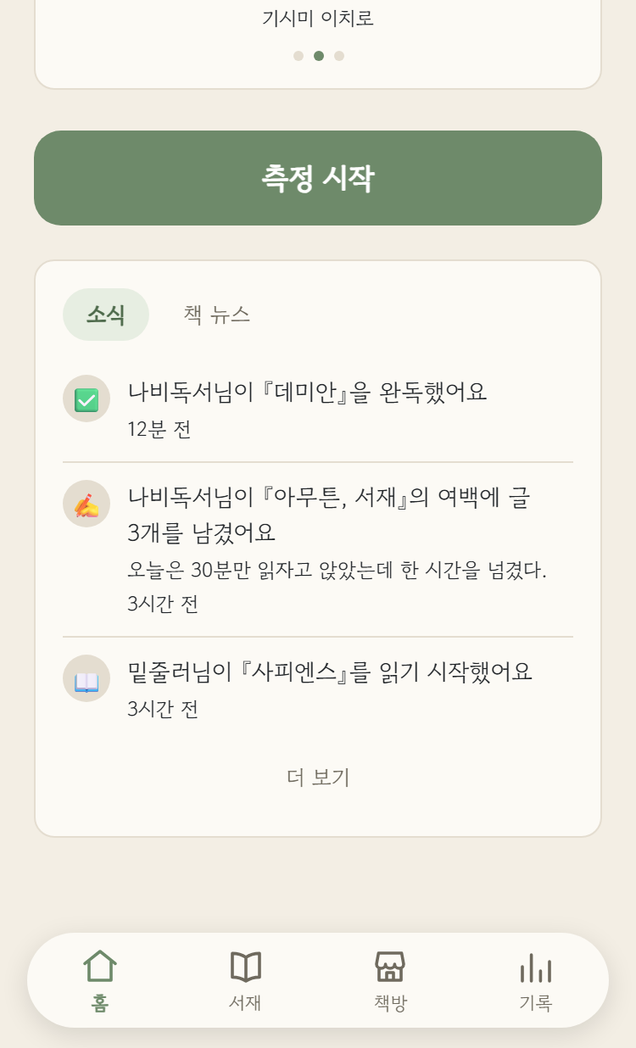
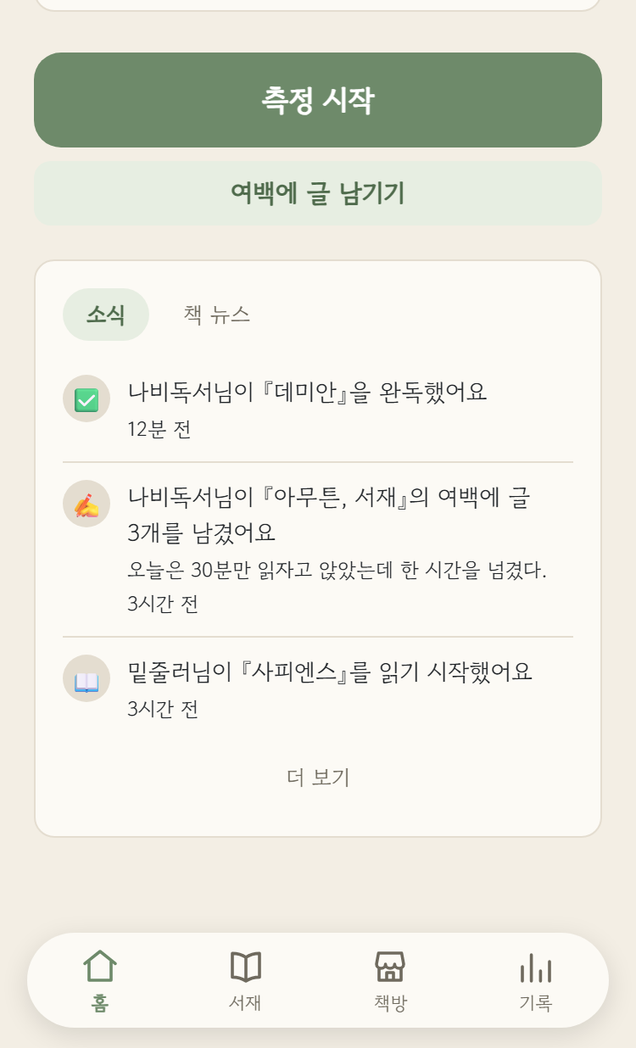
chore(미니앱): 서재 화면이 바뀌어 스토어 스크린샷을 다시 찍는다
인라인 여백 박스가 들어가면서 03-library가 직전 배포와 다른 화면이 됐다.
옛 그림이 콘솔에 남으면 「실제 앱과 다르다」가 그대로 반려 사유다.

03-library도 최상단에서 못 찍게 됐다 — 박스가 세로를 늘려 스크롤 0에서
찍으면 첫 글 카드가 문장 중간에서 탭바로 잘린다. 01-home이 이미 같은
이유로 80px 내려 찍고 있었고, 여기도 60px 오프셋을 재촬영기에 박았다
(더 내리면 상태 탭 줄이, 덜 내리면 첫 카드가 잘린다 — 눈으로 고른 값).

나머지 컷의 변경분은 목 픽스처의 상대시각·오늘 날짜 행과 소식에 실린
새 여백 글이다. 규격은 636x1048 x5 + 1504x741 그대로.

Session-Model: claude-opus-5

Changed region(s): [[0.0299, 0.0, 0.956, 0.2137]]

diff --git a/claude-docs/changelog.md b/claude-docs/changelog.md
@@ -699,3 +699,4 @@
 | 2026-08-16 | **feat(미니앱): 여백 쓰기 동선을 홈·서재로 옮긴다 (PR 3/3)** — 여백에 글을 남기는 유일한 길이 **책방**이었다. 책방은 남에게 *보여지는* 전시장이지 개인 공간이 아니고, 격자가 공개 책만 진열해 **비공개 책엔 진입점이 아예 없었다**(홈에서 글 쓰기까지 3탭 + 스크롤). 그래서 문을 두 개 냈다 — 홈은 「측정 시작」 바로 아래 「여백에 글 남기기」로 **1탭 작성 직행**(대상 책 = 측정 중이면 활성 책, 대기 중이면 캐러셀에서 고른 책 · `marginDoorBook`), 서재는 「관리」 옆 「여백」 손잡이로 그 책의 여백 화면(서재는 "뭘 남겼더라"를 들춰보는 자리라 작성 직행이 아니다). 핸들(@아이디)이 없으면 둘 다 그리지 않는다 — 서버가 여백 대상을 loginId로만 찾아 눌러도 안 열리는 죽은 문이 된다. ⚠ **구조 변경은 「여백을 App 전역 뷰로 올린 것」**이다: 예전엔 홈 소식에서 여백을 열면 **책방 탭으로 점프**해, 뒤로 갔더니 남의 전시장이 나왔다(문의 취지가 거기서 무너진다). 이제 `goal`·`settings`처럼 탭 위에 전체 화면으로 서고 **뒤로 = 열었던 탭**이며, 그 전달 수단이던 `marginTarget`(App 상태 + `Bookshop.initialMargin`/`onMarginConsumed`) 배선은 통째로 삭제했다. 책방 격자→여백은 책방 셸 내부 상태 그대로라 그 경로는 회귀 0. 비공개 책 여백이 생겼으므로 고지도 2중으로 — **쓰는 순간** 캡션(`visibilityNotice`: 비공개면 「나만 봐요」, 필드 없는 옛 서버는 공개로 간주 — 새는 글을 안 샌다고 말하는 쪽이 더 위험한 거짓말이다)과 **공개하는 순간** 확인 시트(`needsPublishConfirm`: 비공개 + 남긴 글 1개 이상일 때만, 되돌리는 방향엔 묻지 않는다). 캡션은 placeholder가 아니라 입력 위 캡션이다(placeholder는 첫 글자에 사라지는데 정작 그 문구가 필요한 때는 쓰는 도중이다). TDD RED→GREEN 5회(순수 함수 3종 + 노출 마크업 2회), 돌연변이 4종으로 테스트가 실제로 죽는지 확인, 미니앱 628건·tsc 깨끗. 목 모드 실 브라우저로 홈·서재·소식·책방 4경로와 확인 시트 전 항목 확인(콘솔 에러 0). ⚠ 확인 중 **목이 거짓 신호를 주는 것**도 하나 고쳤다 — `recentBookId`가 상수 1이라 측정 중 문이 엉뚱한 책을 가리켰다(서버는 `startedAt desc`라 활성 책이 최신). 새 애니메이션 0. |
 | 2026-08-16 | **fix(미니앱): 여백에 다녀오면 홈 캐러셀 선택이 기본 책으로 되돌아가던 것** — 직전 PR(#826)이 여백을 **탭 밖 전역 뷰**로 올리면서 생긴 알려진 한계를 사용자 제보(「거슬린다」)로 닫았다. 캐러셀에서 기본값 아닌 책을 골라 「여백에 글 남기기」로 들어갔다 나오면 선택이 이어 읽기 책으로 되돌아왔다 — 여백·목표·설정이 전체 화면으로 서면 홈이 **언마운트**되는데 고른 책을 홈이 `useState`로 들고 있었기 때문. 상태를 **App으로 올렸다**(탭 밖 화면이 서도 살아남는 자리). ⚠ **`undefined`(아직 안 고름)와 `null`(「책 없이」를 고름)을 다른 값으로 뒀다** — 하나로 합치면 책 없이 측정하던 사람이 돌아올 때마다 이어 읽기 책으로 끌려간다(선택을 지키려던 수정이 정반대로 작동하는 자리). 홈은 `undefined`일 때만 `defaultBookId` 규칙으로 떨어지므로 기본값 동작은 그대로다. TDD RED 2건 → GREEN, 미니앱 630건·tsc 깨끗. **돌연변이 사살**: 프롭을 무시하고 늘 기본값을 쓰게 뒤집자 새 테스트 2건이 죽었다. 목 모드 실 브라우저 게이트로 실제 시나리오 확인(사피엔스 선택 → 작성 화면 → 뒤로 → 사피엔스 유지, 콘솔 에러 0). |
 | 2026-08-16 | **feat(미니앱): 서재에서 고른 책 아래 여백을 인라인으로 보여준다** — 서재의 「여백」은 **누르기 전엔 아무것도 말하지 않는 문**이었다: 그 책에 글이 있는지조차 목록 화면까지 가야 알 수 있어, 「내가 뭘 남겼더라」를 들춰보려면 매번 화면을 나갔다 와야 했다. 고른 책 아래 **인라인 박스**(헤더 「여백 N」 + 최근 2장 미리보기 + 「전체 보기 ›」)를 세워 그 자리에서 보이게 하고, 손잡이 줄은 **「여백에 글쓰기」(작성 직행) + 「관리」 전폭 2:1**로 갈랐다 — 들춰보기를 박스가 맡으니 손잡이는 홈 문과 같은 작성 직행이 된다. 카드는 여백 화면의 `MarginCard`를 `self=false`로 빌려 쓴다(지우기는 전체 화면의 몫 — 새 카드 구현 0). ⚠ **가장 위험한 자리는 캐러셀을 훑을 때의 경합**이라 가드를 **둘** 뒀다: ① 쓰기 가드(effect cleanup의 `stale`) ② **렌더 가드**(스냅에 `bookId` 태그를 달아 지금 책과 다르면 무조건 로딩 — 순수 함수 `marginBoxView`라 단위 계측이 닿는다). 한쪽만으론 반쪽이다 — 렌더 가드 단독은 늦은 응답이 마지막에 덮으면 **재요청 트리거가 없어 로딩에 영구 교착**하고, 쓰기 가드 단독은 「응답 도착 전까지 옛 책 글이 그대로 보이는」 구간을 못 막는다. 요청 폭주는 **2단 debounce**(캐러셀 settle 120ms + 박스 300ms)로 누른다 — 훑는 도중엔 요청이 아예 안 나가고 정착한 책만 1회(목 모드 실측: 3권을 훑어 **1건**). ⚠ **응답 캐시는 일부러 안 만들었다** — 리마운트 재조회(작성 후 복귀 반영이 여기서 공짜로 나온다)와 캐시 무효화가 얽히면 stale 사고 클래스가 새로 생긴다. 박스는 `selectedId`가 아니라 **`resolveSelected` 결과**에 물려 있어 탭 이동·삭제로 state 변경 없이 선택이 폴백되는 경로까지 자동으로 덮인다. 실패는 박스 안 한 줄에 머문다(401만 App으로). ⚠ **`HANDLE_ROW_HEIGHT`는 추측값이 아니라 실측이다** — TDS `Button size="medium"` 높이는 코드로 유도할 수 없어 목 모드에서 「책 추가하기」를 재서 38px로 박았다(합폭 350 = 본문 전폭, gap 8, 실측 비율 1.87:1). TDD RED→GREEN 3단계(T1 스냅 판정 4건 → T2 표시 7건 → T3 배선 6건), 미니앱 644건·tsc 깨끗. **돌연변이 사살 3종**: 렌더 가드의 `bookId` 비교 삭제 / 미리보기 `slice` 개수 조작 / `myLoginId !== null` 가드 삭제 — 각각 1건씩 죽었다. 목 모드 실 브라우저 게이트 10항목 전수(표시·0장·비공개·탭 이동·삭제·전체 보기·작성 직행과 복귀 반영·핸들 없는 계정·손잡이 실측·요청 계수, 콘솔 에러 0). |
+| 2026-08-16 | **chore(미니앱): 서재 화면이 바뀌어 스토어 스크린샷 6장을 다시 찍는다** — 인라인 여백 박스가 들어가면서 `03-library.png`가 **직전 배포와 다른 화면**이 됐다. 옛 그림이 콘솔에 남으면 「실제 앱과 다르다」가 그대로 반려 사유라, 화요일 심사 제출 전에 `shoot.mjs`로 6장을 덮어썼다(규격은 그대로 636×1048 ×5 + 1504×741). ⚠ **`03-library`도 최상단에서 못 찍게 됐다** — 박스가 세로를 늘려 스크롤 0에서 찍으면 첫 글 카드가 **문장 중간에서 탭바로 잘린다**(잘린 문장은 심사용 그림이 아니다). `01-home`이 이미 같은 이유로 80px 내려 찍고 있었고, 여기도 60px 오프셋을 재촬영기에 박았다 — 값은 눈으로 골랐다(더 내리면 상태 탭 줄이 잘리고, 덜 내리면 첫 카드가 잘린다). 나머지 컷의 변경분은 목 픽스처의 상대시각·오늘 날짜 행과 소식에 실린 새 여백 글이다. 재촬영기가 레포에 있어 이번엔 처음부터 짜지 않았다(2026-08-16 오전에 스크래치패드 소실로 다시 짰던 비용이 실제로 회수된 첫 사례). |

diff --git a/miniapp/screenshots/README.md b/miniapp/screenshots/README.md
@@ -12,7 +12,7 @@
 |---|---|---|
 | `01-home.png` | 홈 — 타이머 카드 + 표지 캐러셀 | 세로 |
 | `02-feed.png` | 홈(아래) — 「소식」·「책 뉴스」 피드 박스 | 세로 |
-| `03-library.png` | 서재 — 상태 탭 + 표지 캐러셀 | 세로 |
+| `03-library.png` | 서재 — 상태 탭 + 표지 캐러셀 + 인라인 여백 박스 | 세로 |
 | `04-history.png` | 기록 — 통계 + 잔디 + 날짜별 기록 | 세로 |
 | `05-goal.png` | 목표 — 시/분 휠 피커 | 세로 |
 | `10-landscape.png` | 가로형 배너(앱 화면이 아니라 **세로 컷 3장을 얹은 합성물**) | 가로 |
